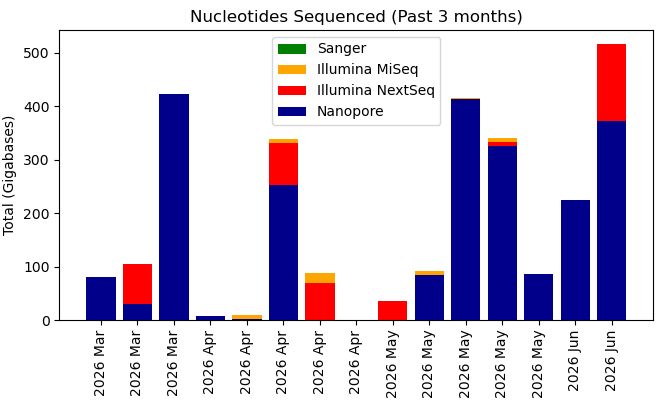
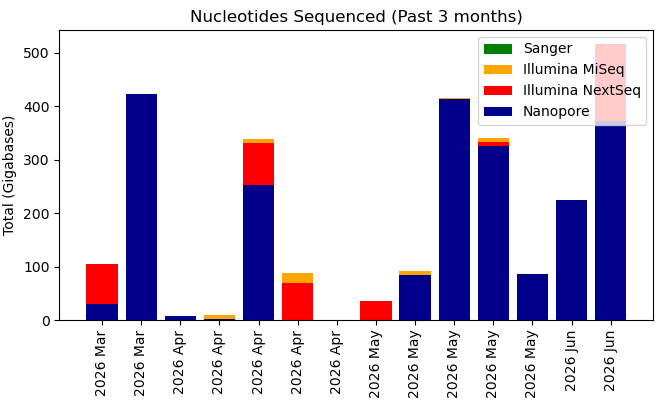
Your commit message here

diff --git a/krona/cgs.html b/krona/cgs.html
@@ -52,8 +52,8 @@ body {
   flex-direction: column;
 }
 </style>
-<H1>Genomics Facility Status: 07:00:14, 14/06/2026</H1>
-<marquee behavior="scroll" scrollamount="20" direction="left" bgcolor="lightgrey">AAAATAATCAGCGTGACATTCAGAAGGGTAATAAGAACGAACCATAAAAAAGCCTCCAAGATTTGGAGGCATGAAAACATACAATTGGGAGGGTGTCAATCCTGACGGTTATTTCCTAGACAAATTAGAGCCAATACCATCAGCTTTACCGTCTTTCCAGAAATTGTTCCAAGTATCGGCAACAGCTTTATCAATACCATGAAAAATATCAACCACACCAGAAGCAGCATCAGTGACGACATTAGAAATAT</marquee>
+<H1>Genomics Facility Status: 07:00:13, 15/06/2026</H1>
+<marquee behavior="scroll" scrollamount="20" direction="left" bgcolor="lightgrey">CTGGTGCTATGGCTAAAGCTGGTAAAGGACTTCTTGAAGGTACGTTGCAGGCTGGCACTTCTGCCGTTTCTGATAAGTTGCTTGATTTGGTTGGACTTGGTGGCAAGTCTGCCGCTGATAAAGGAAAGGATACTCGTGATTATCTTGCTGCTGCATTTCCTGAGCTTAATGCTTGGGAGCGTGCTGGTGCTGATGCTTCCTCTGCTGGTATGGTTGACGCCGGATTTGAGAATCAAAAAGAGCTTACTAA</marquee>
 <TABLE BORDER=0><TR><TD><TABLE class="styled-table"><H3>GigaBases Sequenced</H3>
-<TR><TD><b>Platform</b></TD><TD><b>Week</b></TD><TD><b>Month</b></TD><TD><b>Year</b></TD><TD><b>Total</b></TD></TR><TR><TD>Illumina MiSeq</TD><TD>0.0</TD><TD>7.36</TD><TD>347.97</TD><TD>567.8</TD></TR><TR><TD>Illumina NextSeq</TD><TD>143.68</TD><TD>151.09</TD><TD>4012.43</TD><TD>6797.43</TD></TR><TR><TD>Nanopore PromethION</TD><TD>507.48</TD><TD>1421.73</TD><TD>8693.86</TD><TD>13638.06</TD></TR><TR><TD>Sanger</TD><TD>0.0</TD><TD>0.0</TD><TD>0.02</TD><TD>0.05</TD></TR></TABLE></TD><TD><IMG SRC="fig1.png"><IMG SRC="fig2.png"></TD></TR><TR><TD><H3>No. Samples (No. Experiments)</H3>
-<TABLE class="styled-table"><TR><TD><b>Platform</b></TD><TD><b>Week</b></TD><TD><b>Month</b></TD><TD><b>Year</b></TD><TD><b>Total</b></TD></TR><TR><TD>Illumina MiSeq</TD><TD>0 (0)</TD><TD>40 (1)</TD><TD>1395 (70)</TD><TD>2514 (101)</TD></TR><TR><TD>Illumina NextSeq</TD><TD>24 (1)</TD><TD>36 (3)</TD><TD>1268 (60)</TD><TD>2222 (90)</TD></TR><TR><TD>Nanopore PromethION</TD><TD>20 (8)</TD><TD>53 (29)</TD><TD>627 (212)</TD><TD>1055 (374)</TD></TR><TR><TD>Sanger</TD><TD>480 (480)</TD><TD>1632 (1632)</TD><TD>21115 (21115)</TD><TD>46626 (46626)</TD></TR></TABLE></TD><TD><IMG SRC="fig4.png"></TD></TR></TABLE></HTML>
+<TR><TD><b>Platform</b></TD><TD><b>Week</b></TD><TD><b>Month</b></TD><TD><b>Year</b></TD><TD><b>Total</b></TD></TR><TR><TD>Illumina MiSeq</TD><TD>0.0</TD><TD>7.36</TD><TD>347.97</TD><TD>567.8</TD></TR><TR><TD>Illumina NextSeq</TD><TD>143.68</TD><TD>151.09</TD><TD>4012.43</TD><TD>6797.43</TD></TR><TR><TD>Nanopore PromethION</TD><TD>372.61</TD><TD>1421.73</TD><TD>8693.86</TD><TD>13638.06</TD></TR><TR><TD>Sanger</TD><TD>0.0</TD><TD>0.0</TD><TD>0.02</TD><TD>0.05</TD></TR></TABLE></TD><TD><IMG SRC="fig1.png"><IMG SRC="fig2.png"></TD></TR><TR><TD><H3>No. Samples (No. Experiments)</H3>
+<TABLE class="styled-table"><TR><TD><b>Platform</b></TD><TD><b>Week</b></TD><TD><b>Month</b></TD><TD><b>Year</b></TD><TD><b>Total</b></TD></TR><TR><TD>Illumina MiSeq</TD><TD>0 (0)</TD><TD>40 (1)</TD><TD>1395 (70)</TD><TD>2514 (101)</TD></TR><TR><TD>Illumina NextSeq</TD><TD>24 (1)</TD><TD>36 (3)</TD><TD>1268 (60)</TD><TD>2222 (90)</TD></TR><TR><TD>Nanopore PromethION</TD><TD>12 (6)</TD><TD>53 (29)</TD><TD>627 (212)</TD><TD>1055 (374)</TD></TR><TR><TD>Sanger</TD><TD>480 (480)</TD><TD>1536 (1536)</TD><TD>21019 (21019)</TD><TD>46626 (46626)</TD></TR></TABLE></TD><TD><IMG SRC="fig4.png"></TD></TR></TABLE></HTML>
